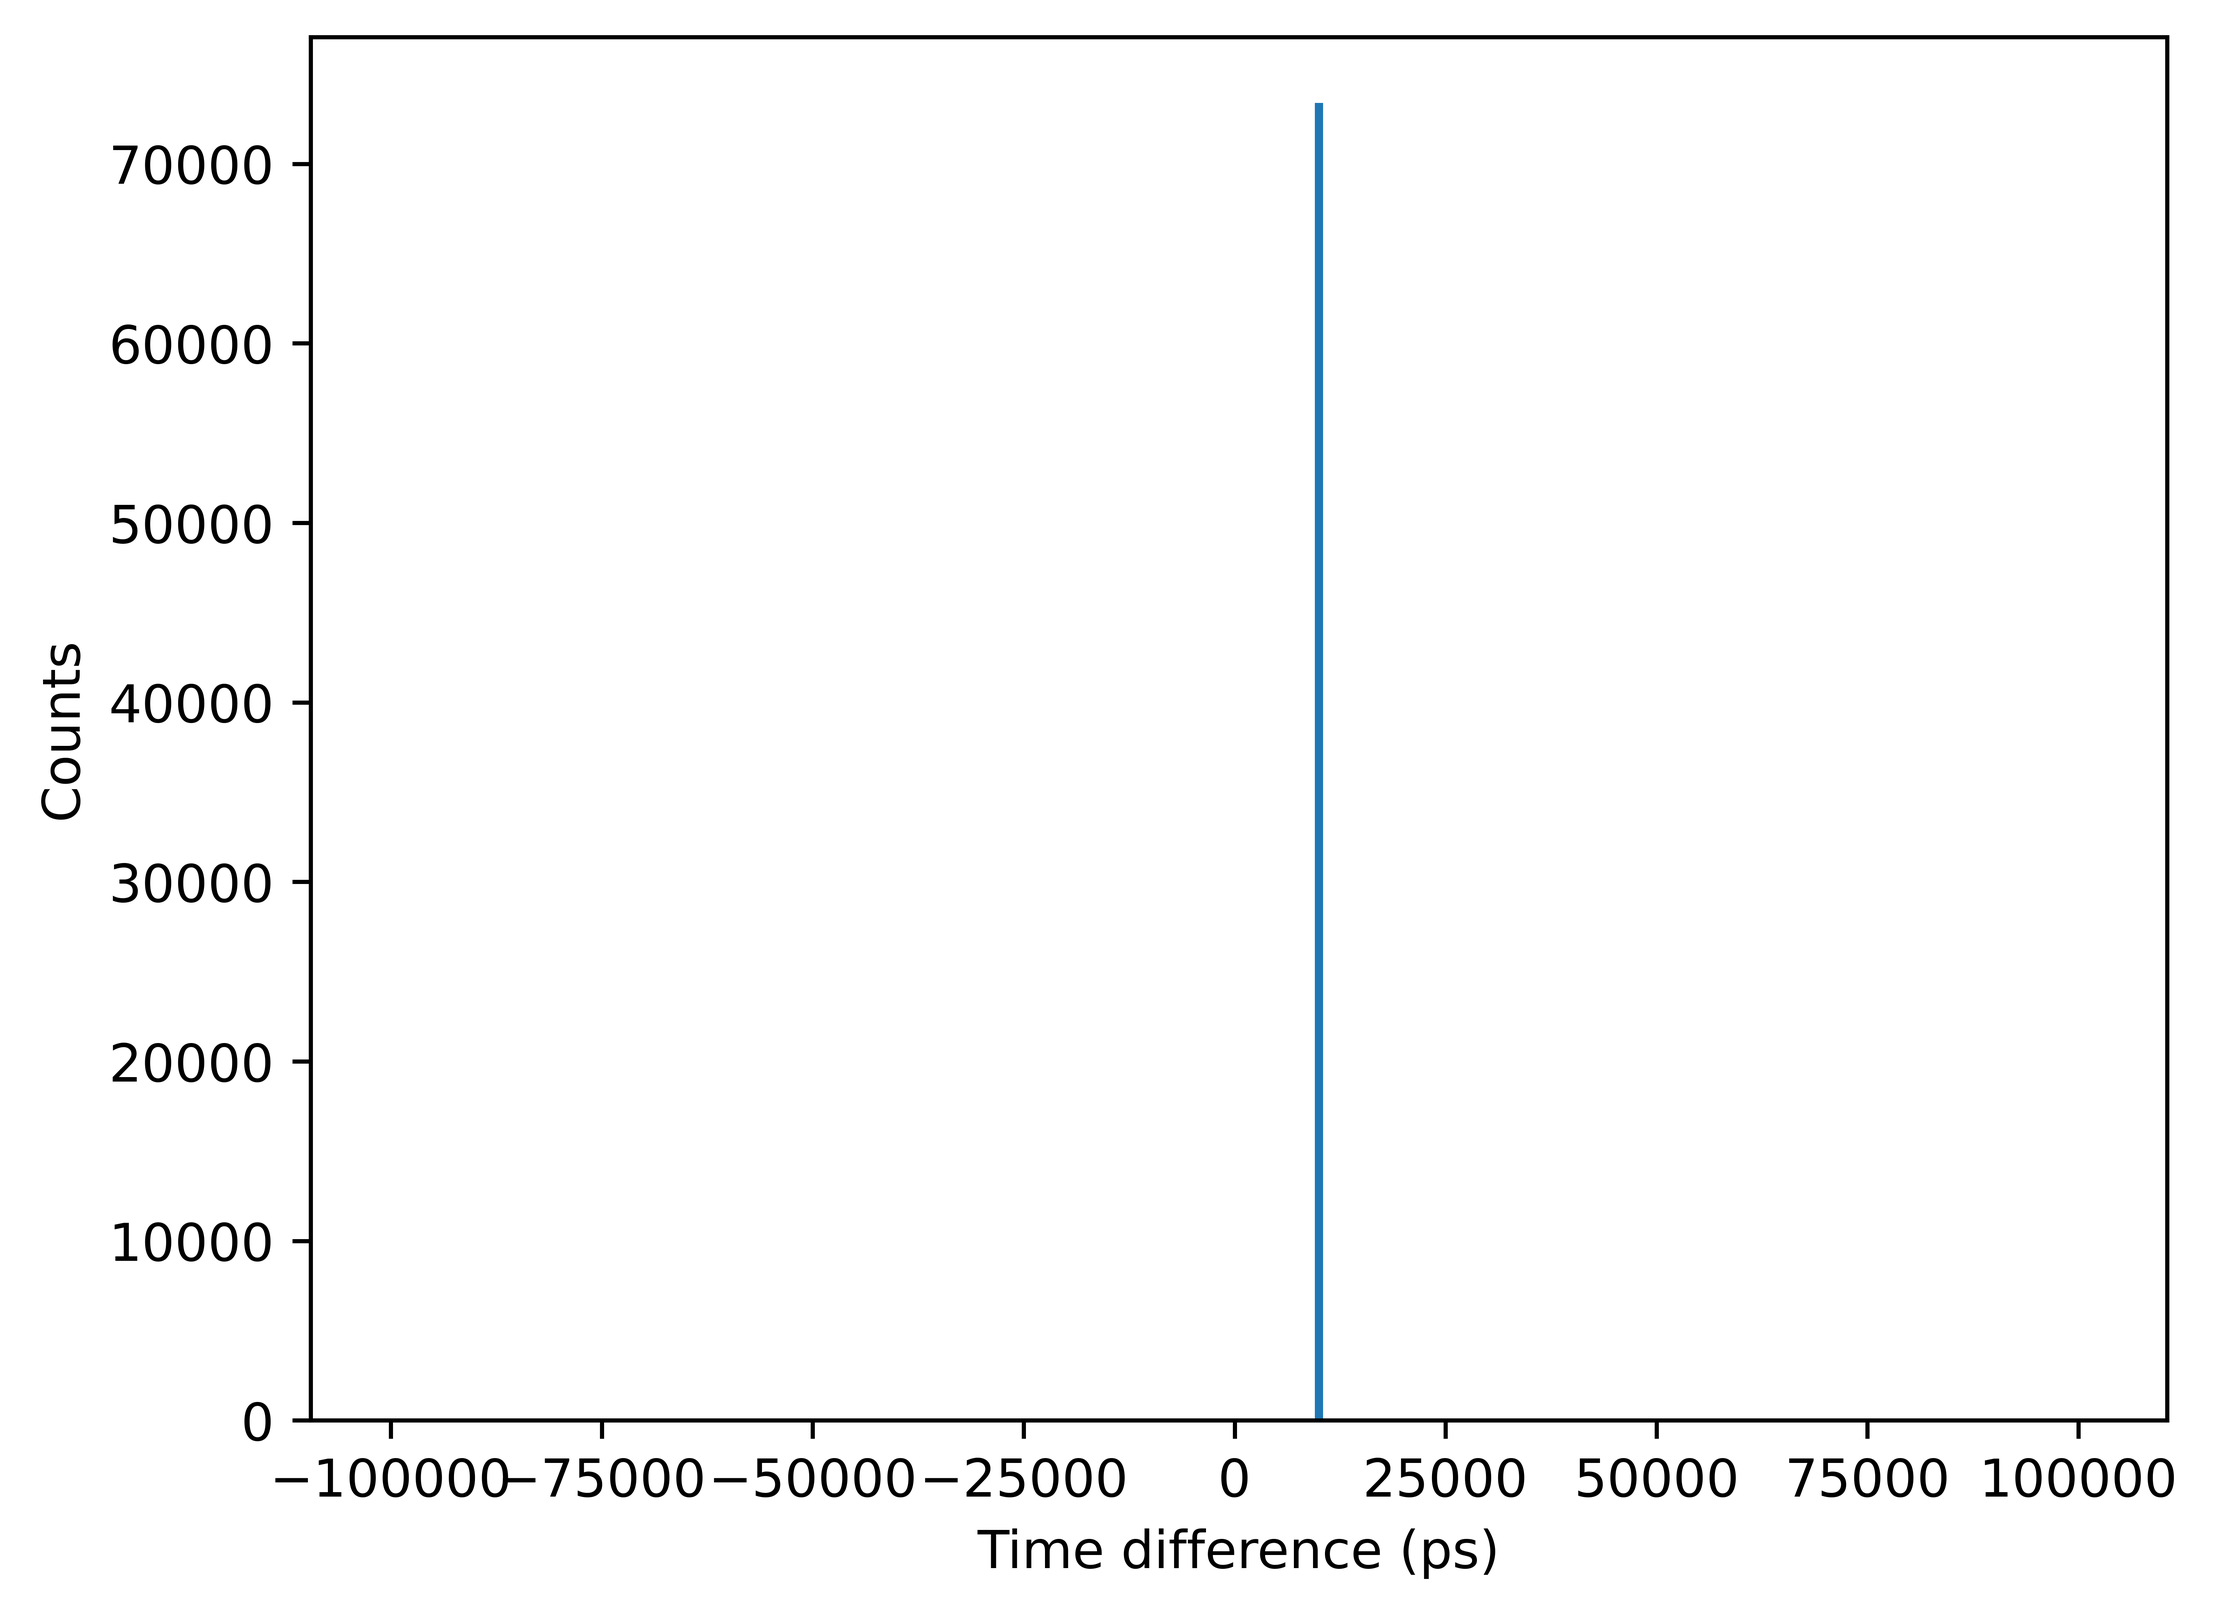
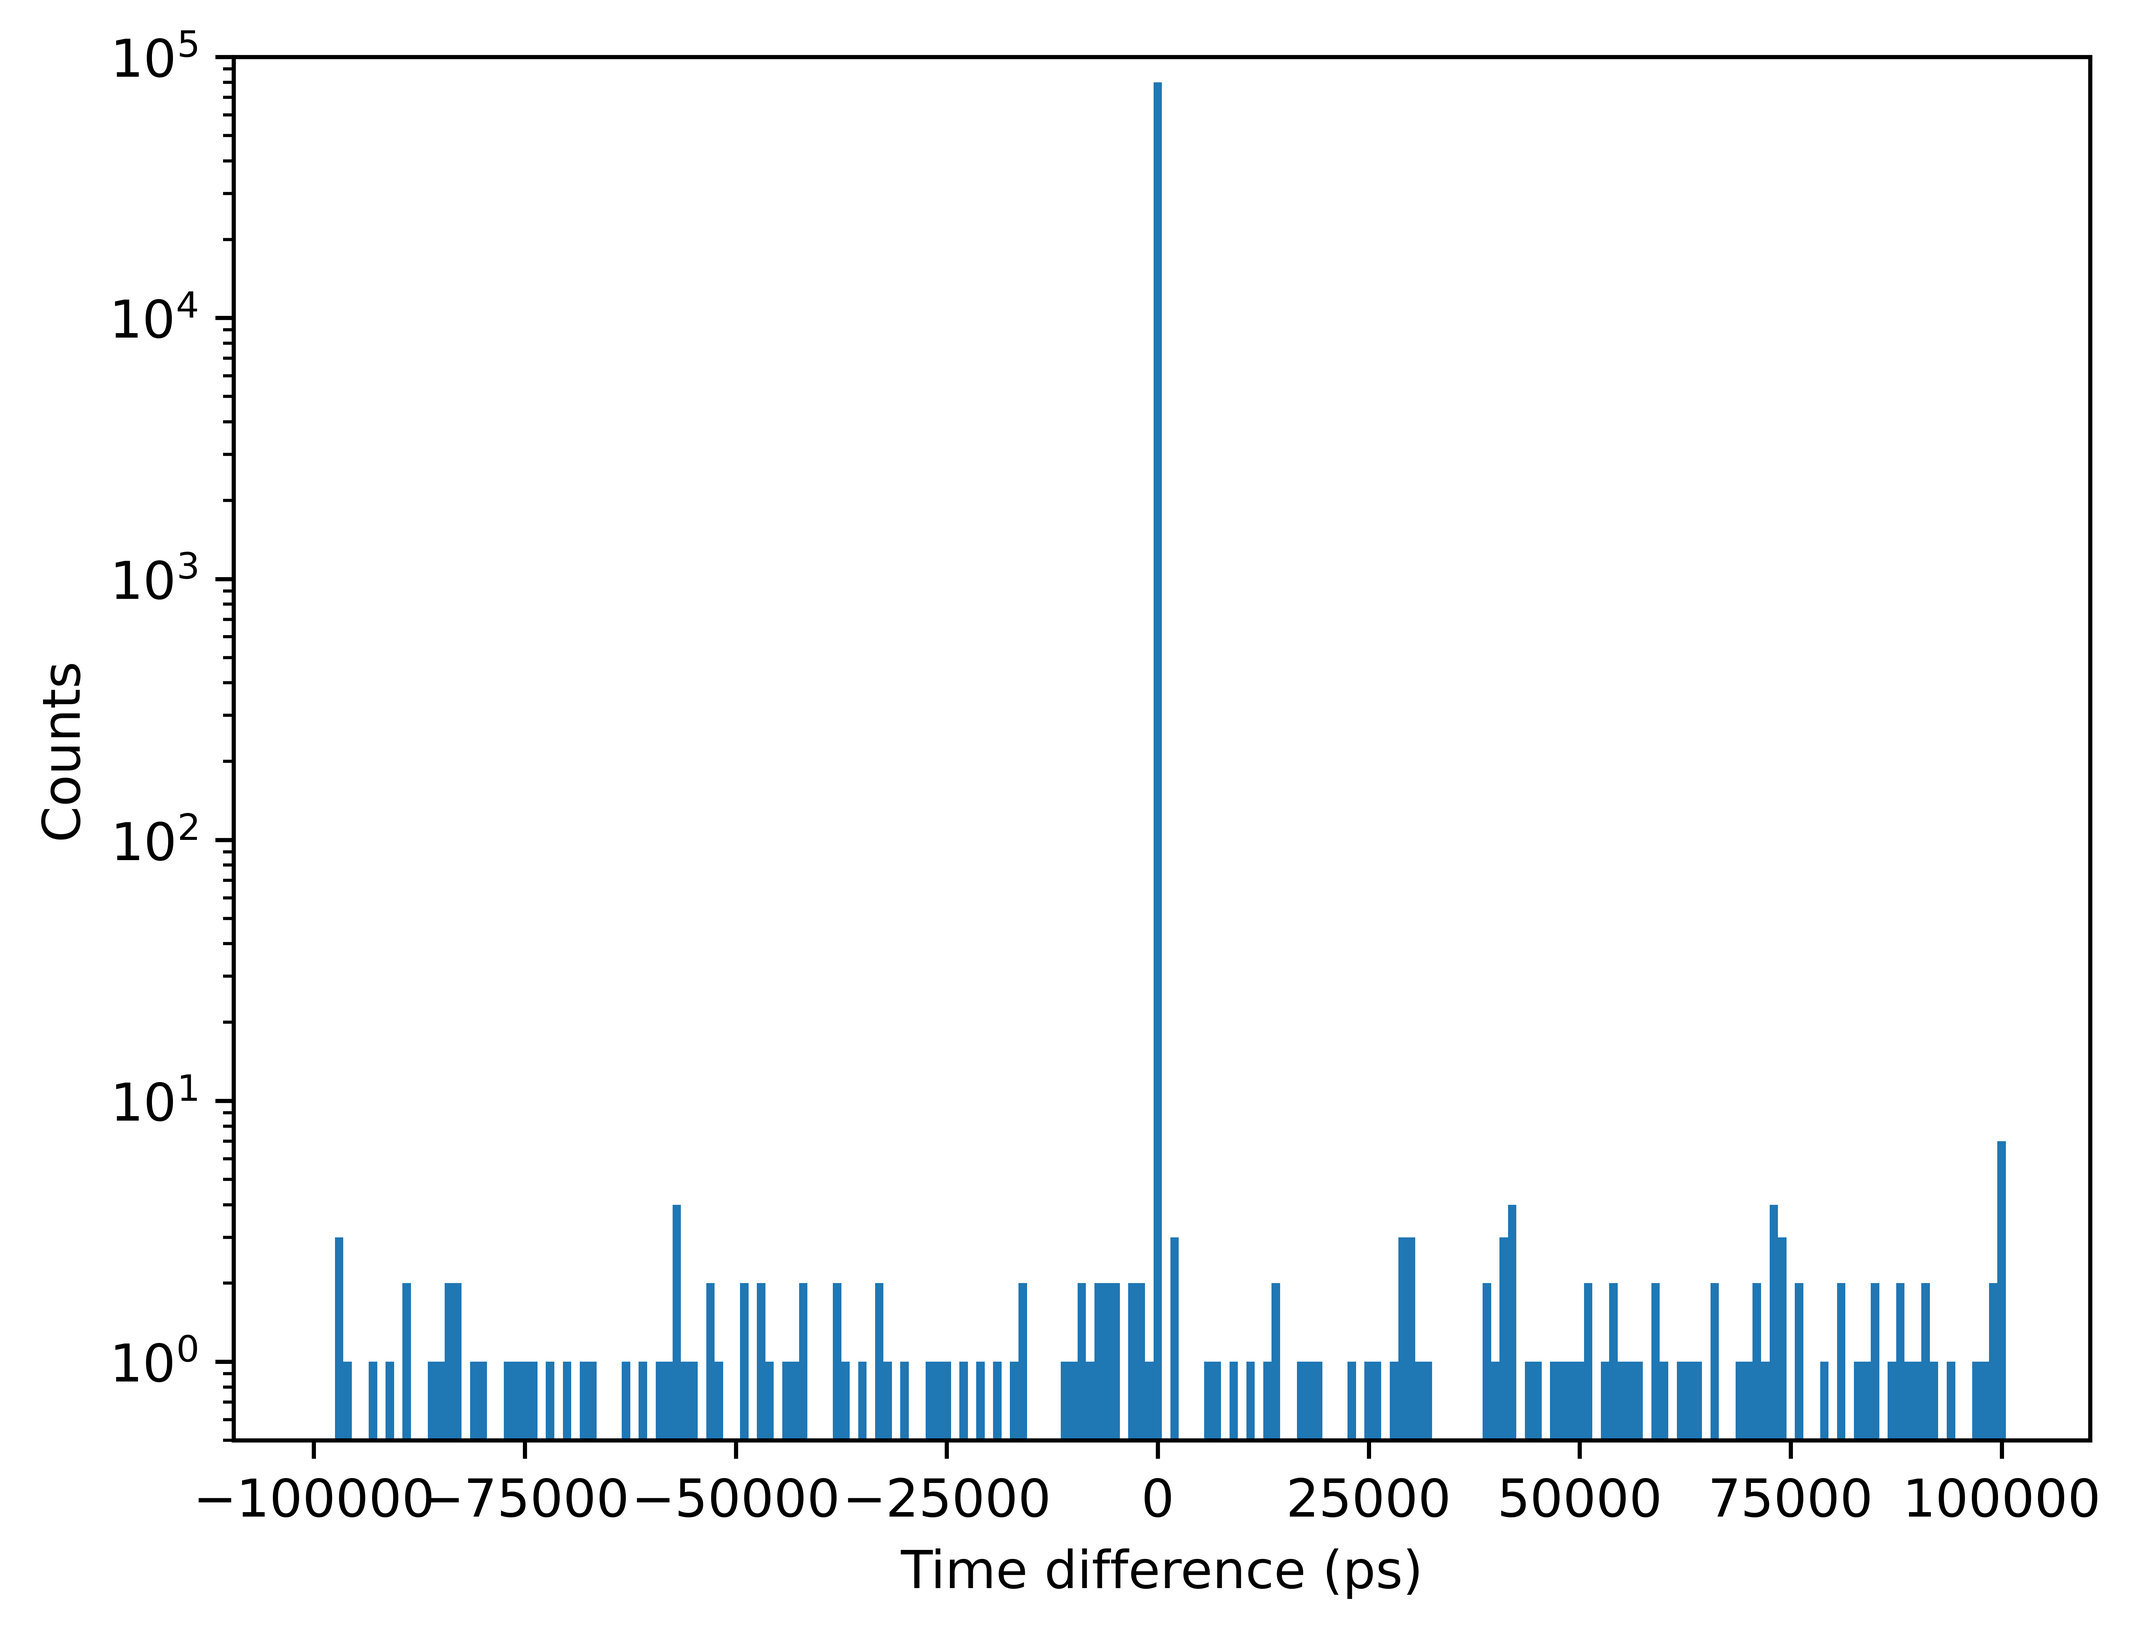
polished up the g2 graphs

diff --git a/simulations_with_practical_issues/plot.py b/simulations_with_practical_issues/plot.py
@@ -10,84 +10,114 @@ rotations = 50
 states = ['H', 'D', 'V', 'A']
 
 
-def plot_g2_darkcounts(yaml_fn, dc, colors=None, ylim=None):
+def plot_g2_darkcounts(yaml_fn, dc, colors=None):
 
     with alive_bar(len(dc), force_tty=True) as bar:
         sim = Simulator(yaml_fn)
-
+        max_max = 0
         for i in range(0, len(dc)):
 
             sim.set_dc_rate(dc[i])
             sim.run()
-            if colors is None:
-                plt.hist(sim.dtime, sim.bins, alpha=0.5, label=dc[i])
-            else:
-                plt.hist(sim.dtime, sim.bins, alpha=0.5, label=dc[i], color=colors[i])
+            if sim.bins[0] != -1:
+                if colors is None:
+                    plt.hist(sim.dtime, sim.bins, alpha=0.5, label=dc[i])
+                else:
+                    plt.hist(sim.dtime, sim.bins, alpha=0.5, label=dc[i], color=colors[i])
+
+                if sim.max_counts > max_max:
+                    max_max = sim.max_counts
+
             bar()
 
     plt.xlabel('Time difference (ps)')
     plt.ylabel('Counts')
     plt.legend(title='Dark counts per second')
+    plt.yscale('log')
+    plt.ylim(0.5, 10**math.ceil(math.log10(max_max)))
+
     title = 'plots\\g2\\g2_vs_darkcounts,' + \
             'l=' + str((sim.optical_loss_idler + sim.optical_loss_signal) / 2) + ',' + \
             'dt=' + str(sim.deadtime) + ',' + \
-            'j=' + str(sim.jitter_fwhm)
-
-    if ylim is not None:
-        plt.ylim(0, ylim)
-        title = title + '(0,' + str(ylim) + ').png'
-    else:
-        title = title + '.png'
+            'j=' + str(sim.jitter_fwhm) + '.png'
 
     plt.savefig(title, dpi=1000, bbox_inches='tight')
     plt.show()
 
 
-def plot_g2_deadtime(yaml_fn, deadtime, colors=None, ylim=None):
+def plot_g2_deadtime(yaml_fn, deadtime, colors=None):
 
     with alive_bar(len(deadtime), force_tty=True) as bar:
+
+        max_max = 0
 
         for i in range(0, len(deadtime)):
             sim = Simulator(yaml_fn)
             sim.set_deadtime(deadtime[i])
             sim.run()
-            if colors is None:
-                plt.hist(sim.dtime, sim.bins, alpha=0.5, label=deadtime[i])
-            else:
-                plt.hist(sim.dtime, sim.bins, alpha=0.5, label=deadtime[i], color=colors[i])
+            if sim.bins[0] != -1:
+                if colors is None:
+                    plt.hist(sim.dtime, sim.bins, alpha=0.5, label=deadtime[i])
+                else:
+                    plt.hist(sim.dtime, sim.bins, alpha=0.5, label=deadtime[i], color=colors[i])
+
+            if sim.max_counts > max_max:
+                max_max = sim.max_counts
+
             bar()
 
     plt.xlabel('Time difference (ps)')
     plt.ylabel('Counts')
     plt.legend(title='Dead time (ps)')
-    title = 'plots\\g2\\g2_vs_deadtime' + \
+    plt.yscale('log')
+    plt.ylim(0.5, 10**math.ceil(math.log10(sim.max_counts)))
+
+    title = 'plots\\g2\\g2_vs_deadtime,' + \
             'l=' + str((sim.optical_loss_idler + sim.optical_loss_signal)/2) + ',' + \
             'dc=' + str(sim.dark_count_rate) + ',' + \
-            'j=' + str(sim.jitter_fwhm)
-
-    if ylim is not None:
-        plt.ylim(0, ylim)
-        title = title + '(0,' + str(ylim) + ').png'
-    else:
-        title = title + '.png'
+            'j=' + str(sim.jitter_fwhm) + '.png'
 
     plt.savefig(title, dpi=1000, bbox_inches='tight')
     plt.show()
 
 
-def plot_g2_jitter(yaml_fn, jitter, colors=None, ylim=None):
+def plot_g2_jitter(yaml_fn, jitter, colors=None, fwhm=False):
 
     with alive_bar(len(jitter), force_tty=True) as bar:
-
-        sim = Simulator(yaml_fn)
+        fig, ax = plt.subplots()
 
         for i in range(0, len(jitter)):
+            sim = Simulator(yaml_fn)
+
             sim.set_jitter(jitter[i])
             sim.run()
-            if colors is None:
-                plt.hist(sim.dtime, sim.bins, alpha=0.5, label=jitter[i])
-            else:
-                plt.hist(sim.dtime, sim.bins, alpha=0.5, label=jitter[i], color=colors[i])
+            if sim.bins[0] != -1:
+                if colors is None:
+                    plt.hist(sim.dtime, sim.bins, alpha=0.5, label=jitter[i])
+                else:
+                    plt.hist(sim.dtime, sim.bins, alpha=0.5, label=jitter[i], color=colors[i])
+
+                if fwhm:
+                    half_max = sim.max_counts/2
+                    max_i = np.argmax(sim.histo)
+                    l_lim_i = max_i
+                    r_lim_i = max_i
+
+                    while sim.histo[l_lim_i] > half_max:
+                        l_lim_i -= 1
+                    while sim.histo[r_lim_i] > half_max:
+                        r_lim_i += 1
+
+                    l_lim = sim.bins[l_lim_i + 1]
+                    r_lim = sim.bins[r_lim_i]
+
+                    ax.annotate('',
+                                xy=(l_lim - 400, half_max), xycoords='data',
+                                xytext=(r_lim + 400, half_max), textcoords='data',
+                                arrowprops=dict(arrowstyle="<->",
+                                                connectionstyle="arc3", color=colors[i], lw=1),
+                                )
+                    plt.text(r_lim, half_max, str(r_lim - l_lim), color=colors[i])
             bar()
 
     plt.xlabel('Time difference (ps)')
@@ -97,51 +127,46 @@ def plot_g2_jitter(yaml_fn, jitter, colors=None, ylim=None):
     title = 'plots\\g2\\g2_vs_jitter,' + \
             'l=' + str((sim.optical_loss_idler + sim.optical_loss_signal) / 2) + ',' + \
             'dc=' + str(sim.dark_count_rate) + ',' + \
-            'dt=' + str(sim.deadtime)
-
-    if ylim is not None:
-        plt.ylim(0, ylim)
-        title = title + '(0,' + str(ylim) + ').png'
-    else:
-        title = title + '.png'
+            'dt=' + str(sim.deadtime) + '.png'
 
     plt.savefig(title, dpi=1000, bbox_inches='tight')
     plt.show()
 
 
-def plot_g2_loss(yaml_fn, loss, colors=None, ylim=None):
+def plot_g2_loss(yaml_fn, loss, colors=None):
 
     with alive_bar(len(loss), force_tty=True) as bar:
 
+        max_max = 0
         for i in range(len(loss)):
             sim = Simulator(yaml_fn)
-            sim.set_loss_signal(loss[i])
-            sim.set_loss_idler(loss[i])
+            loss_pr = 10 ** (loss[i]/10)
+            sim.set_loss_signal(loss_pr)
+            sim.set_loss_idler(loss_pr)
             sim.run()
 
-            # TODO: add this to all the others, could be a problem if loss=1
             if sim.bins[0] != -1:
                 if colors is None:
                     plt.hist(sim.dtime, sim.bins, alpha=0.5, label=loss[i])
                 else:
                     plt.hist(sim.dtime, sim.bins, alpha=0.5, label=loss[i], color=colors[i])
+
+            if sim.max_counts > max_max:
+                max_max = sim.max_counts
+
             bar()
 
-    # TODO: change to decibels
     plt.xlabel('Time difference (ps)')
     plt.ylabel('Counts')
     plt.xlim(-10000, 10000)
-    plt.legend(title='Optical Loss')
+    plt.legend(title='Optical Loss (dB)')
+    plt.yscale('log')
+    plt.ylim(0.5, 10**math.ceil(math.log10(max_max)))
+
     title = 'plots\\g2\\g2_vs_loss,' + \
             'dc=' + str(sim.dark_count_rate) + ',' + \
             'dt' + str(sim.deadtime) + ',' + \
-            'j=' + str(sim.jitter_fwhm)
-
-    if ylim is not None:
-        plt.ylim(0, ylim)
-        title = title + '(0,' + str(ylim) + ').png'
-    else:
-        title = title + '.png'
+            'j=' + str(sim.jitter_fwhm) + '.png'
 
     plt.savefig(title, dpi=1000, bbox_inches='tight')
     plt.show()
@@ -194,7 +219,7 @@ def plot_car_deadtime(yaml_fn, start, stop, num_points):
     plt.xlabel('Dead Time (ps)')
     plt.ylabel('Coincidence-to-Accidental Rate')
 
-    title = 'plots\\car\\car_vs_deadtime' + \
+    title = 'plots\\car\\car_vs_deadtime,' + \
             'l=' + str((sim.optical_loss_idler + sim.optical_loss_signal)/2) + ',' + \
             'dc=' + str(sim.dark_count_rate) + ',' + \
             'j=' + str(sim.jitter_fwhm) + '.png'
@@ -232,7 +257,7 @@ def plot_car_jitter(yaml_fn, start, stop, num_points):
 
 def plot_car_loss(yaml_fn, start, stop, num_points):
 
-    x_val = np.linspace(start, stop, num_points)
+    x_val = 10**(np.linspace(start, stop, num_points)/10)
     y_val = []
 
     with alive_bar(num_points, force_tty=True) as bar:
@@ -245,11 +270,9 @@ def plot_car_loss(yaml_fn, start, stop, num_points):
             y_val.append(car)
             bar()
 
-    plt.plot(x_val, y_val)
-    plt.xlabel('Optical Loss')
+    plt.plot(np.linspace(start, stop, num_points), y_val)
+    plt.xlabel('Optical Loss (dB)')
     plt.ylabel('Coincidence-to-Accidental Rate')
-    plt.xscale('log')
-    # TODO: change to dB
 
     title = 'plots\\car\\car_vs_loss,' + \
             'dc=' + str(sim.dark_count_rate) + ',' + \
@@ -361,8 +384,9 @@ def plot_visibility_loss(yaml_fn, state, start, stop, num_points):
     with alive_bar(num_points, force_tty=True) as bar:
         for loss in x_val:
             sim = Rotation(yaml_fn, state, rotations)
-            sim.set_loss_signal(loss)
-            sim.set_loss_idler(loss)
+            loss_pr = 10 ** (loss / 10)
+            sim.set_loss_signal(loss_pr)
+            sim.set_loss_idler(loss_pr)
             sim.run()
             visibility = sim.get_visibility()
             for i in range(4):
@@ -372,11 +396,9 @@ def plot_visibility_loss(yaml_fn, state, start, stop, num_points):
     for i in range(4):
         plt.plot(x_val, y_val[i], label=states[i])
     plt.legend()
-    plt.xlabel('Optical Loss')
+    plt.xlabel('Optical Loss (dB)')
     plt.ylabel('Visibility')
     plt.ylim(0, 1)
-    # TODO: change to dB
-    plt.xscale('log')
 
     title = 'plots\\visibility\\visibility_vs_loss,' + \
             'dc=' + str(sim.dark_count_rate) + ',' + \
@@ -423,16 +445,15 @@ if __name__ == '__main__':
     d = .25
     qubit_state = [1 / math.sqrt(2), 0, 0, np.exp(1j * d) / math.sqrt(2)]
 
-    # TODO: figure out why stuck on 2nd iteration when jitter = 100
-    plot_g2_darkcounts('config.yaml', [0, 100, 1000, 100000], ['C1', 'C8', 'C2', 'C0'], 200)
-    # plot_g2_deadtime('config.yaml', [0, 10000, 1000000, 10000000], ['C1', 'C8', 'C2', 'C0'])
-    # plot_g2_jitter('config.yaml', [0, 5000, 10000, 20000, 100000], ['C3', 'C1', 'C2', 'C0', 'C4'])
-    # plot_g2_loss('config.yaml', [0, 0.2, 0.4, 0.6, 0.8, 1], ['C3', 'C1', 'C8', 'C2', 'C0', 'C4'])
+    # plot_g2_darkcounts('config.yaml', [0, 100, 1000, 100000], ['C1', 'C8', 'C2', 'C0'], 25)
+    # plot_g2_deadtime('config.yaml', [0, 10000, 1000000, 10000000], ['C1', 'C8', 'C2', 'C0'], 20)
+    plot_g2_jitter('config.yaml', [0, 5000, 10000, 20000, 100000], ['C3', 'C1', 'C2', 'C0', 'C4'], fwhm=True)
+    # plot_g2_loss('config.yaml', [-10, -6, -3, -1, 0], ['C3', 'C1', 'C8', 'C2', 'C0', 'C4'])
 
     # plot_car_darkcounts('config.yaml', 0, 10000, 8)
     # plot_car_deadtime('config.yaml', 0, 1000000, 256)
-    # plot_car_jitter('config.yaml', 0, 8000, 32)
-    # plot_car_loss('config.yaml', 0, 1, 256)
+    # plot_car_jitter('config.yaml', 0, 8000, 4096)
+    # plot_car_loss('config.yaml', 0, -30, 256)
 
     # plot_visibility_darkcounts('config.yaml', qubit_state, 0, 1000000, 4)
     # plot_visibility_deadtime('config.yaml', qubit_state, 0, 1000000, 4)

diff --git a/simulations_with_practical_issues/Simulator.py b/simulations_with_practical_issues/Simulator.py
@@ -51,11 +51,14 @@ class Simulator:
 
         # jitter
         sigma = self.jitter_fwhm / (2 * math.sqrt(2 * math.log(2)))
-        for i in range(len(self.timestamps_signal)):
-            self.timestamps_signal[i] += math.floor(random.gauss(0, sigma))
-        for i in range(len(self.timestamps_idler)):
-            self.timestamps_idler[i] += math.floor(random.gauss(0, sigma))
-            while self.timestamps_idler[i] < 0:
+        if len(self.timestamps_signal) > 0:
+            self.timestamps_signal[0] += abs(math.floor(random.gauss(0, sigma)))
+            for i in range(1, len(self.timestamps_signal)):
+                self.timestamps_signal[i] += math.floor(random.gauss(0, sigma))
+
+        if len(self.timestamps_idler) > 0:
+            self.timestamps_idler[0] += abs(math.floor(random.gauss(0, sigma)))
+            for i in range(1, len(self.timestamps_idler)):
                 self.timestamps_idler[i] += math.floor(random.gauss(0, sigma))
 
         # generate dark counts
@@ -89,7 +92,7 @@ class Simulator:
 
         # ___________________________________________________________________
         # count coincidences
-        if len(self.timestamps_signal) > 0 and len(self.timestamps_idler):
+        if len(self.timestamps_signal) > 0 and len(self.timestamps_idler) > 0:
             range_ps = 200000           # checks the time difference for (-range_ps/2, range_ps/2)
 
             s_floor = np.int64(np.floor(np.array(self.timestamps_signal) / (range_ps / 2)))
@@ -140,6 +143,8 @@ class Simulator:
         plt.hist(self.dtime, self.bins)
         plt.xlabel('Time difference (ps)')
         plt.ylabel('Counts')
+        plt.yscale('log')
+        plt.ylim(0.5, 10 ** math.ceil(math.log10(self.max_counts)))
         plt.savefig('plots\\cross_correlation_plot.png', dpi=1000, bbox_inches='tight')
         plt.show()
 
